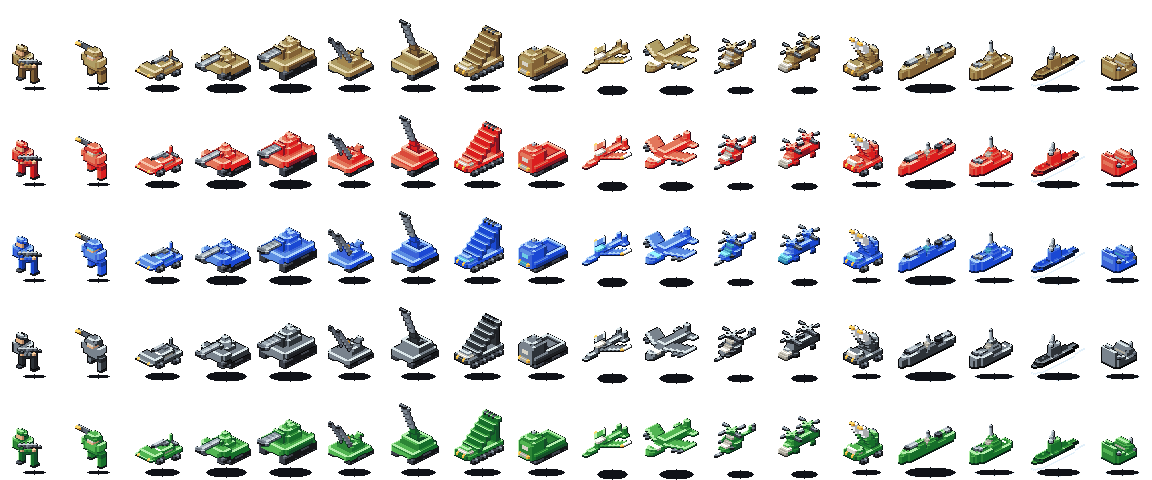
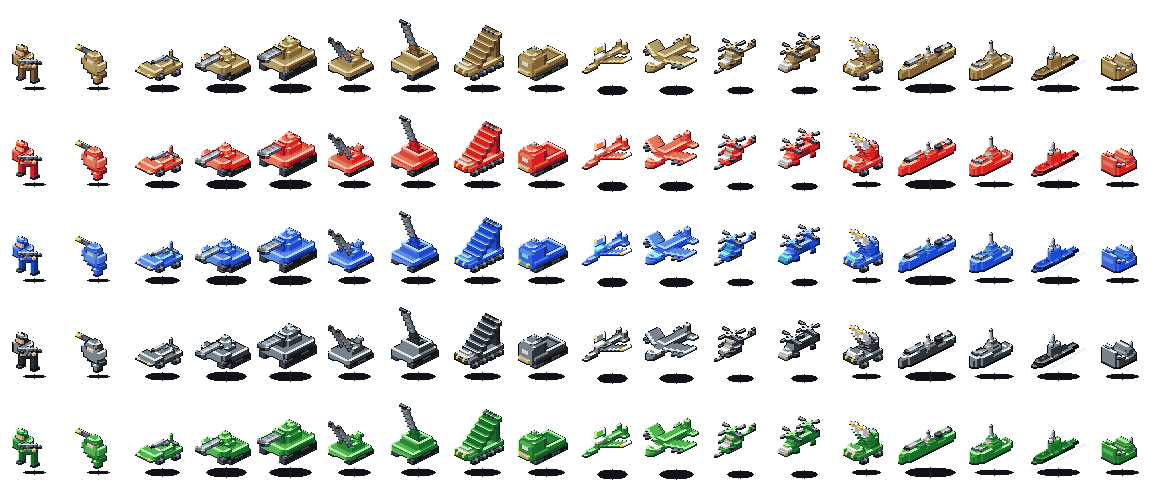
Walk the mech's move clip on its legs alone
MOVE_B lifted and translated the whole figure a board texel up-screen, so
at 160 ms every landmark moved at once and the beat read as a hop in place
rather than as a stride. Pin the torso, pauldrons, helmet and launcher —
the amber warhead tip is now byte-identical between the two frames, and so
is everything above the belt — and put the beat in the legs.

A lift alone is worth five silhouette texels at rung 1, under the clip's
floor of six: half the time the raised leg is the far one, which crosses
inside the torso's own field, and a raised near leg takes the sprite off
the ground row and floats it over its own shadow at a tenth of its mass.
So the legs scissor instead: both boots stay on the ground row and step a
whole texel each along the run, in opposite directions, exchanging places
on the next frame. 14 changed silhouette texels at rung 1 and 47 at rung 2
at a shimmer of 0.14-0.19, against the hop's 20 and 72 — nine tenths of
which was the body rather than the gait.

The rifleman keeps his bob: his legs stand apart on both axes, so the swap
under it carries the walk on its own.

diff --git a/spritegen/units.py b/spritegen/units.py
@@ -572,30 +572,46 @@ def infantry(pose: Pose = Pose.A) -> Model:
     return m
 
 
-def _mech_legs(m: Model, lifted: int | None, rise: int = 0) -> None:
-    """The rocket trooper's stance: two armoured legs under hips `rise` up,
-    with the leg at `lifted` — an x0 of 1 or 6, or None when he is standing —
-    at toe-off.
+def _mech_legs(m: Model, swing: int | None = None) -> None:
+    """The rocket trooper's stance: two armoured legs under a fixed hip line,
+    with the leg at `swing` — an x0 of 1 or 6, or None when he is standing —
+    stepped a board texel FORWARD and the other one the same texel BACK.
 
-    The rifleman's legs stand apart on both axes and can be swapped through
-    the hip centre; these two stand apart in x alone, side by side on screen
-    with nothing to swap, so the gait alternates a LIFT. What rises is the
-    boot, the knee taking the difference, and every leg — raised or planted —
-    ends one voxel under the belt band, so the raised one hangs off the hips
-    rather than floating and the caller's hip line is never punched through.
+    The rifleman's legs stand apart on both axes and swap through the hip
+    centre; these two stand apart in x alone, side by side on screen, so a
+    swap is a no-op and the gait has to be a SCISSOR instead: the boots
+    take a whole board texel each along the run, in opposite directions, and
+    exchange those places on the next frame. Two texels of stride open
+    between them, and the leg that shows — the near one, out against sky —
+    carries one of them by itself. A LIFT instead is what this walked as
+    first and it is worth five silhouette texels, under the move clip's
+    floor of six (`tests/measure_motion.py`): the raised leg has to be the
+    far one half the time, where it crosses inside the torso's own field and
+    the board never sees it, and a raised NEAR leg takes the whole sprite
+    off the ground row, which drops a tenth of its mass and floats it over
+    its own shadow.
 
-    A raised leg on a flat frame has room for no shin at all — its boot is
-    already where the shin would start — and the guard is what keeps the
-    boot: `m.box` normalises its bounds, so an inverted shin span would
-    paint back DOWN over the tire and cost that foot the one dark texel
-    that says foot.
+    Both boots therefore stay on the ground row. The board's tween is what
+    travels, so a planted boot is not a contact the art has to hold — it is
+    only the line the figure stands on, and both frames stand on it.
+
+    Only the boots and shins step. The knee plates stay in the column under
+    their own hip, one voxel below the belt band, so each leg still hangs
+    off the hips rather than floating and the caller's hip line is never
+    punched through; the one-voxel diagonal between a knee and its stepped
+    shin is the bend.
     """
     for x0 in (1, 6):
-        dz = 2 if x0 == lifted else 0
-        m.box(x0, x0 + 1, 4, 6, dz, dz, "tire")  # boot
-        if dz + 1 <= 2 + rise:
-            m.box(x0, x0 + 1, 4, 6, dz + 1, 2 + rise, "hull")  # shin
-        m.box(x0, x0 + 1, 4, 6, 3 + rise, 3 + rise, "hull_dk")  # knee plate
+        # `step` is signed along the run: -1 is the forward `(dx -1, dy +1)`
+        # diagonal, +1 is back, 0 is the standing pair, voxel for voxel.
+        if swing is None:
+            step = 0
+        else:
+            step = -1 if x0 == swing else 1
+        bx, by = x0 + step, 4 - step
+        m.box(bx, bx + 1, by, by + 2, 0, 0, "tire")  # boot
+        m.box(bx, bx + 1, by, by + 2, 1, 2, "hull")  # shin
+        m.box(x0, x0 + 1, 4, 6, 3, 3, "hull_dk")  # knee plate
 
 
 def mech(pose: Pose = Pose.A) -> Model:
@@ -608,10 +624,11 @@ def mech(pose: Pose = Pose.A) -> Model:
     silhouette texels at rung 1 against the 2 the old one-voxel settle
     scored.
 
-    The move clip walks him the way it walks the rifleman — held forward
-    lean, hips bobbing a board texel, one leg at toe-off — on legs that
-    stand side by side and so alternate a lift instead of a swap
-    (`_mech_legs` and the `moving(pose)` branch below)."""
+    The move clip walks him on the rifleman's held forward lean, but the
+    beat is his legs alone: torso and launcher hold still while the boots
+    scissor a board texel each along the run, so the warhead tip is a fixed
+    landmark and what moves is a stride (`_mech_legs` and the `moving(pose)`
+    branch below)."""
     m = Model()
     # The legs are drawn last, off whatever hip line this pose ends up with
     # (`_mech_legs`); the belt band bridging the stance sits on top of them.
@@ -653,30 +670,34 @@ def mech(pose: Pose = Pose.A) -> Model:
         _shift(m, (0, 0, 3, 6, 7, 8), dz=-2)  # left pauldron
         _shift(m, (0, 1, 2, 9, 9, 16), dz=-2)  # launcher, arm, pauldron top
     if moving(pose):
-        # The same gait the rifleman walks, on legs that cannot swap: a held
-        # forward `(dx -1, dy +1)` lean over a hip line that alternates a
-        # board texel of rise, and one leg at toe-off under it. Everything
-        # over the belt leans; the belt and the legs carry the rise, so the
-        # planted boot stays on the ground row and the trooper never
-        # translates.
+        # The rifleman's held forward `(dx -1, dy +1)` lean — the attitude of
+        # a man walking, the same on both frames, because a lean that
+        # alternated at 160 ms is a stumble — and under it a scissor of the
+        # legs (`_mech_legs`).
         #
-        # WHICH leg is up is decided by the rise. These legs are four voxels
-        # tall and a toe-off spends two of them, so a raised leg is a stub
-        # unless the hips have gone up to lend it the difference — and a stub
-        # on the FAR leg sits inside the torso's own field, where it reads as
-        # a squat rather than as a step. So the near leg, which stands out on
-        # the silhouette against sky, takes the flat frame, and the far one
-        # takes the risen frame, where it is long enough to be a leg.
+        # The beat stops at the belt. Everything over it — torso, backpack,
+        # helmet, pauldrons, launcher and its amber warhead tip — is placed
+        # identically on both frames, so the tip is a landmark the eye holds
+        # while the stance swaps beneath it. Bobbing the body a texel too,
+        # which is what this walked as first, translated every landmark at
+        # once and read as a HOP in place rather than as travel. A hip that
+        # rose on its own instead was no better: pinned under a pinned torso
+        # it only buries the belt in the chest and stretches the stance leg
+        # into a slab.
         #
-        # Measured 20 changed silhouette texels at rung 1 and 72 at rung 2,
-        # at a shimmer of 1.15-1.30 (`tests/measure_motion.py`).
-        rise = 2 if beat(pose) else 0
-        if rise:
-            _shift(m, (-1, 9, 1, 10, 4, 16), dz=rise)
-        _shift(m, (-1, 9, 1, 10, 5 + rise, 16 + rise), dx=-1, dy=1)
-        _mech_legs(m, 1 if beat(pose) else 6, rise)
+        # WHICH leg leads is what alternates: the near one on the beat, the
+        # far one off it, so the pair opens into a stride and closes through
+        # a passing position at 160 ms.
+        #
+        # Measured 14 changed silhouette texels at rung 1 and 47 at rung 2,
+        # at a shimmer of 0.14-0.19 (`tests/measure_motion.py`). The hop
+        # scored 20 and 72, but nine tenths of that was the body: this is
+        # what the LEGS are worth, and it is the cleanest ratio of shape to
+        # tone on the sheet.
+        _shift(m, (-1, 9, 1, 10, 5, 16), dx=-1, dy=1)
+        _mech_legs(m, 6 if beat(pose) else 1)
     else:
-        _mech_legs(m, None)
+        _mech_legs(m)
     return m
 
 
